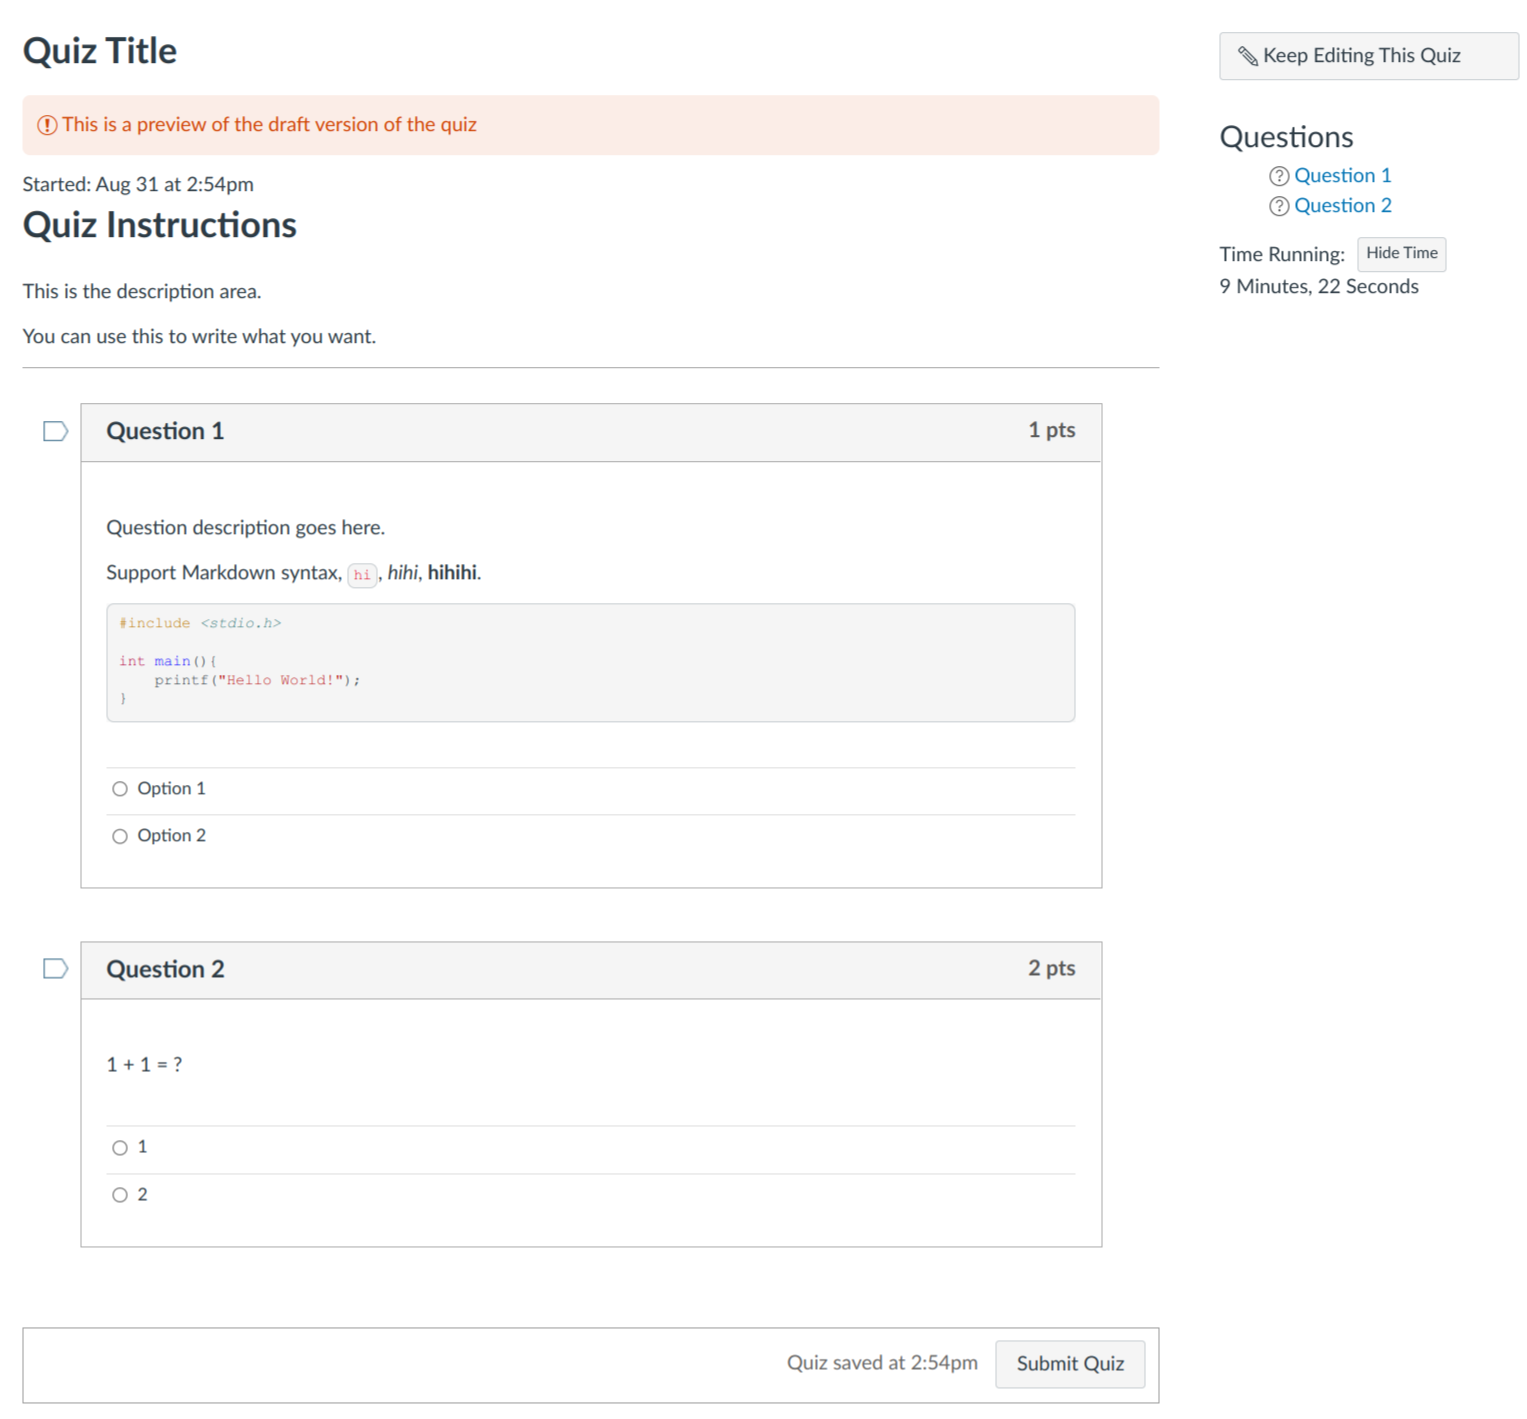
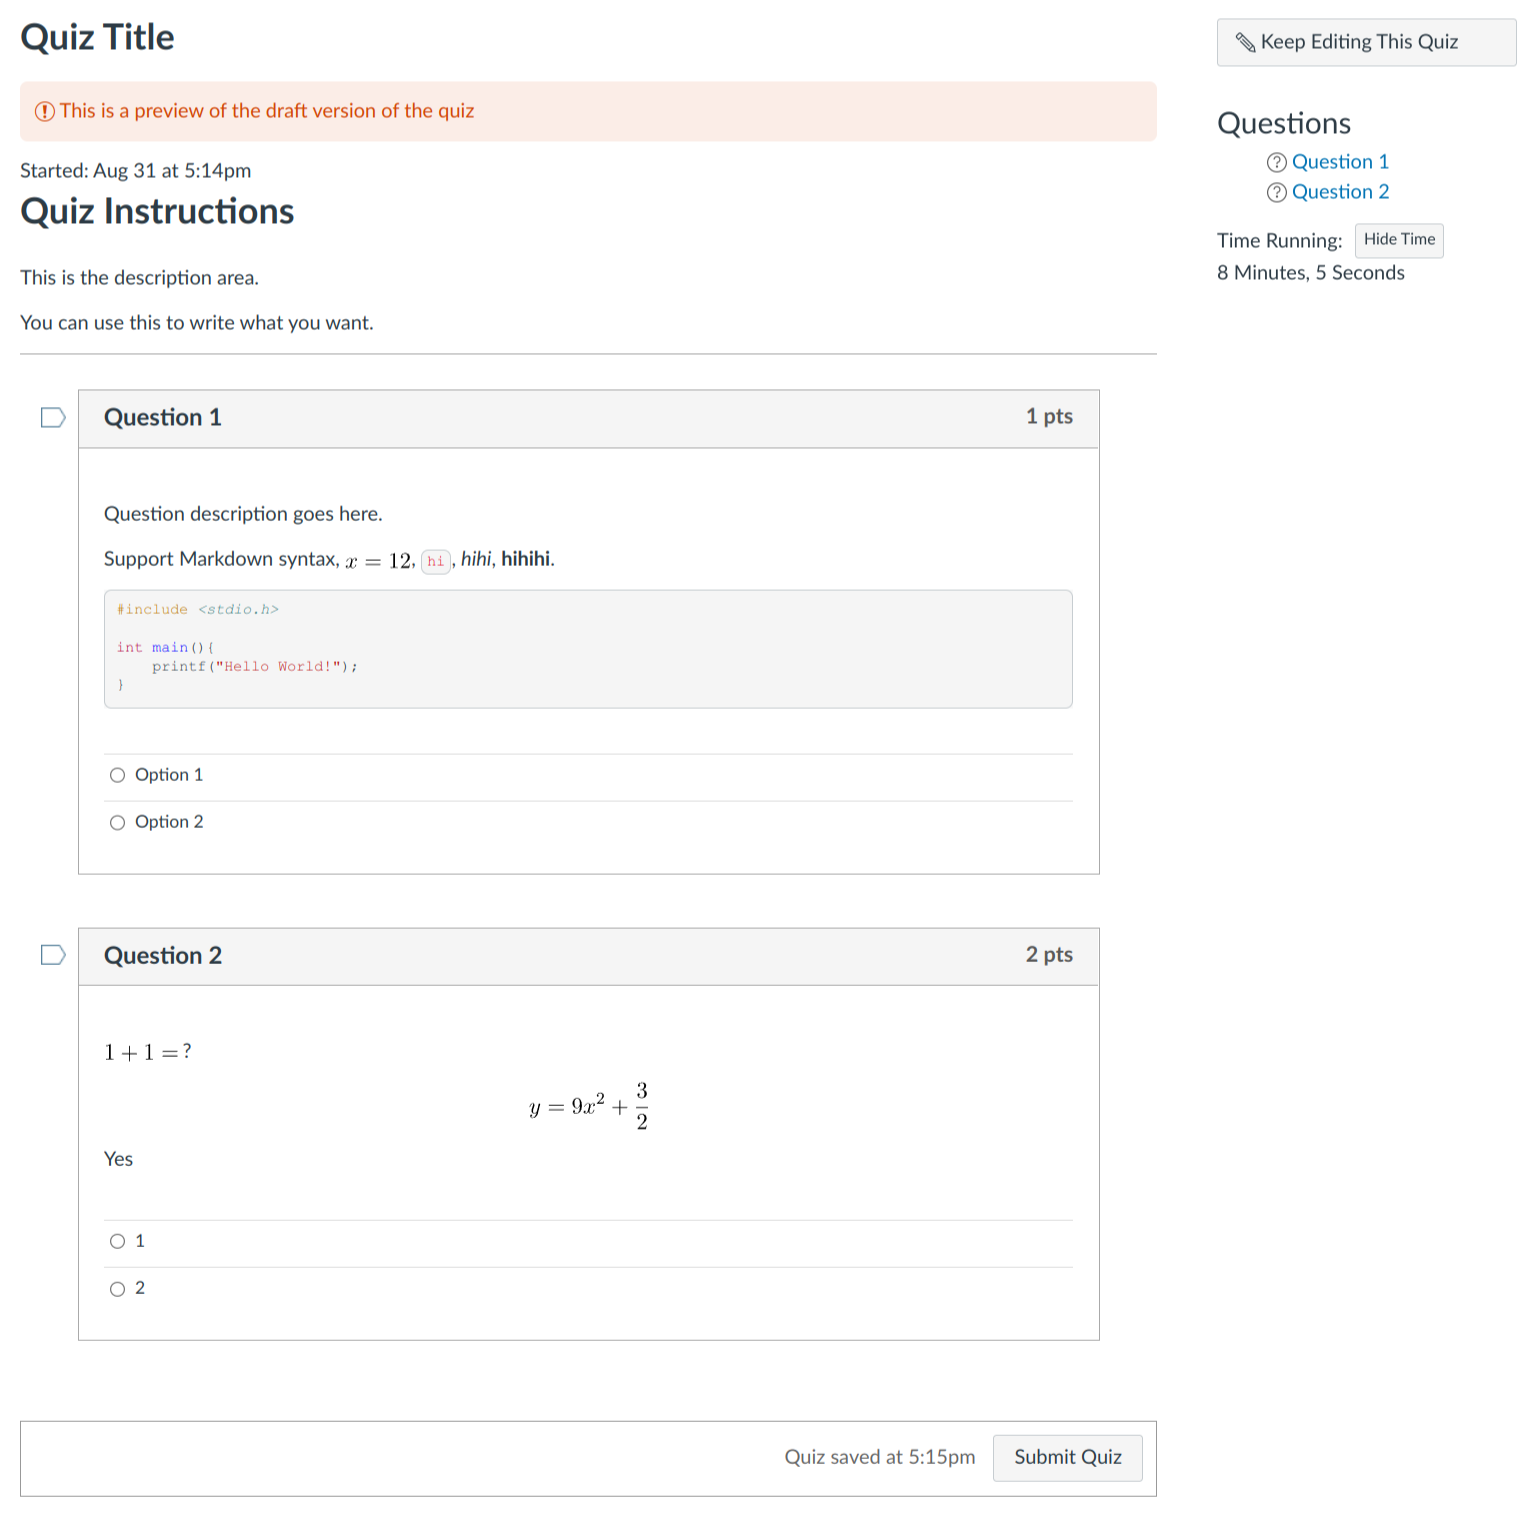
feat: add support for latex

diff --git a/generate.py b/generate.py
@@ -24,7 +24,13 @@ class quiz_utils:
 
     def _render_md(self, m_string: str):
         html = markdown(m_string,
-                        extensions=["codehilite", "fenced_code"]
+                        extensions=["codehilite", "fenced_code", "mdx_math_img"],
+                        extension_configs={
+                            'mdx_math_img': {
+                                'enable_dollar_delimiter': True,
+                                'add_preview': True
+                            }
+                        }
                         )
         return html
 

diff --git a/Readme.md b/Readme.md
@@ -84,11 +84,10 @@ git clone https://github.com/linsyking/canvas-markdown-quiz.git
 
 ```sh
 # using pip for python
-
-pip install markdown canvasapi
+pip install yaml markdown canvasapi mdx-math-img
 
 # If you use pip3 for python3
-pip3 install markdown canvasapi
+pip3 install yaml markdown canvasapi mdx-math-img
 ```
 
 3. Modify Configs
@@ -117,8 +116,3 @@ python3 ./generate.py <md filename>
 ## Snapshot
 
 ![](img/result.png)
-
-## TO-DOs
-
-Latex support is not implemented because Canvas LMS doesn't allow js script to be included in the quiz content, so I am trying to figure out other solutions.
-

diff --git a/test.md b/test.md
@@ -26,7 +26,7 @@ answers:
 
 Question description goes here.
 
-Support Markdown syntax, `hi`, *hihi*, **hihihi**.
+Support Markdown syntax, $x=12$, `hi`, *hihi*, **hihihi**.
 
 ```cpp
 #include <stdio.h>
@@ -50,4 +50,8 @@ answers:
         answer_weight: 100
 ```
 
-1 + 1 = ?
+$1 + 1 =$ ?
+
+$$y = 9x^2 + \frac{3}{2}$$
+
+Yes
